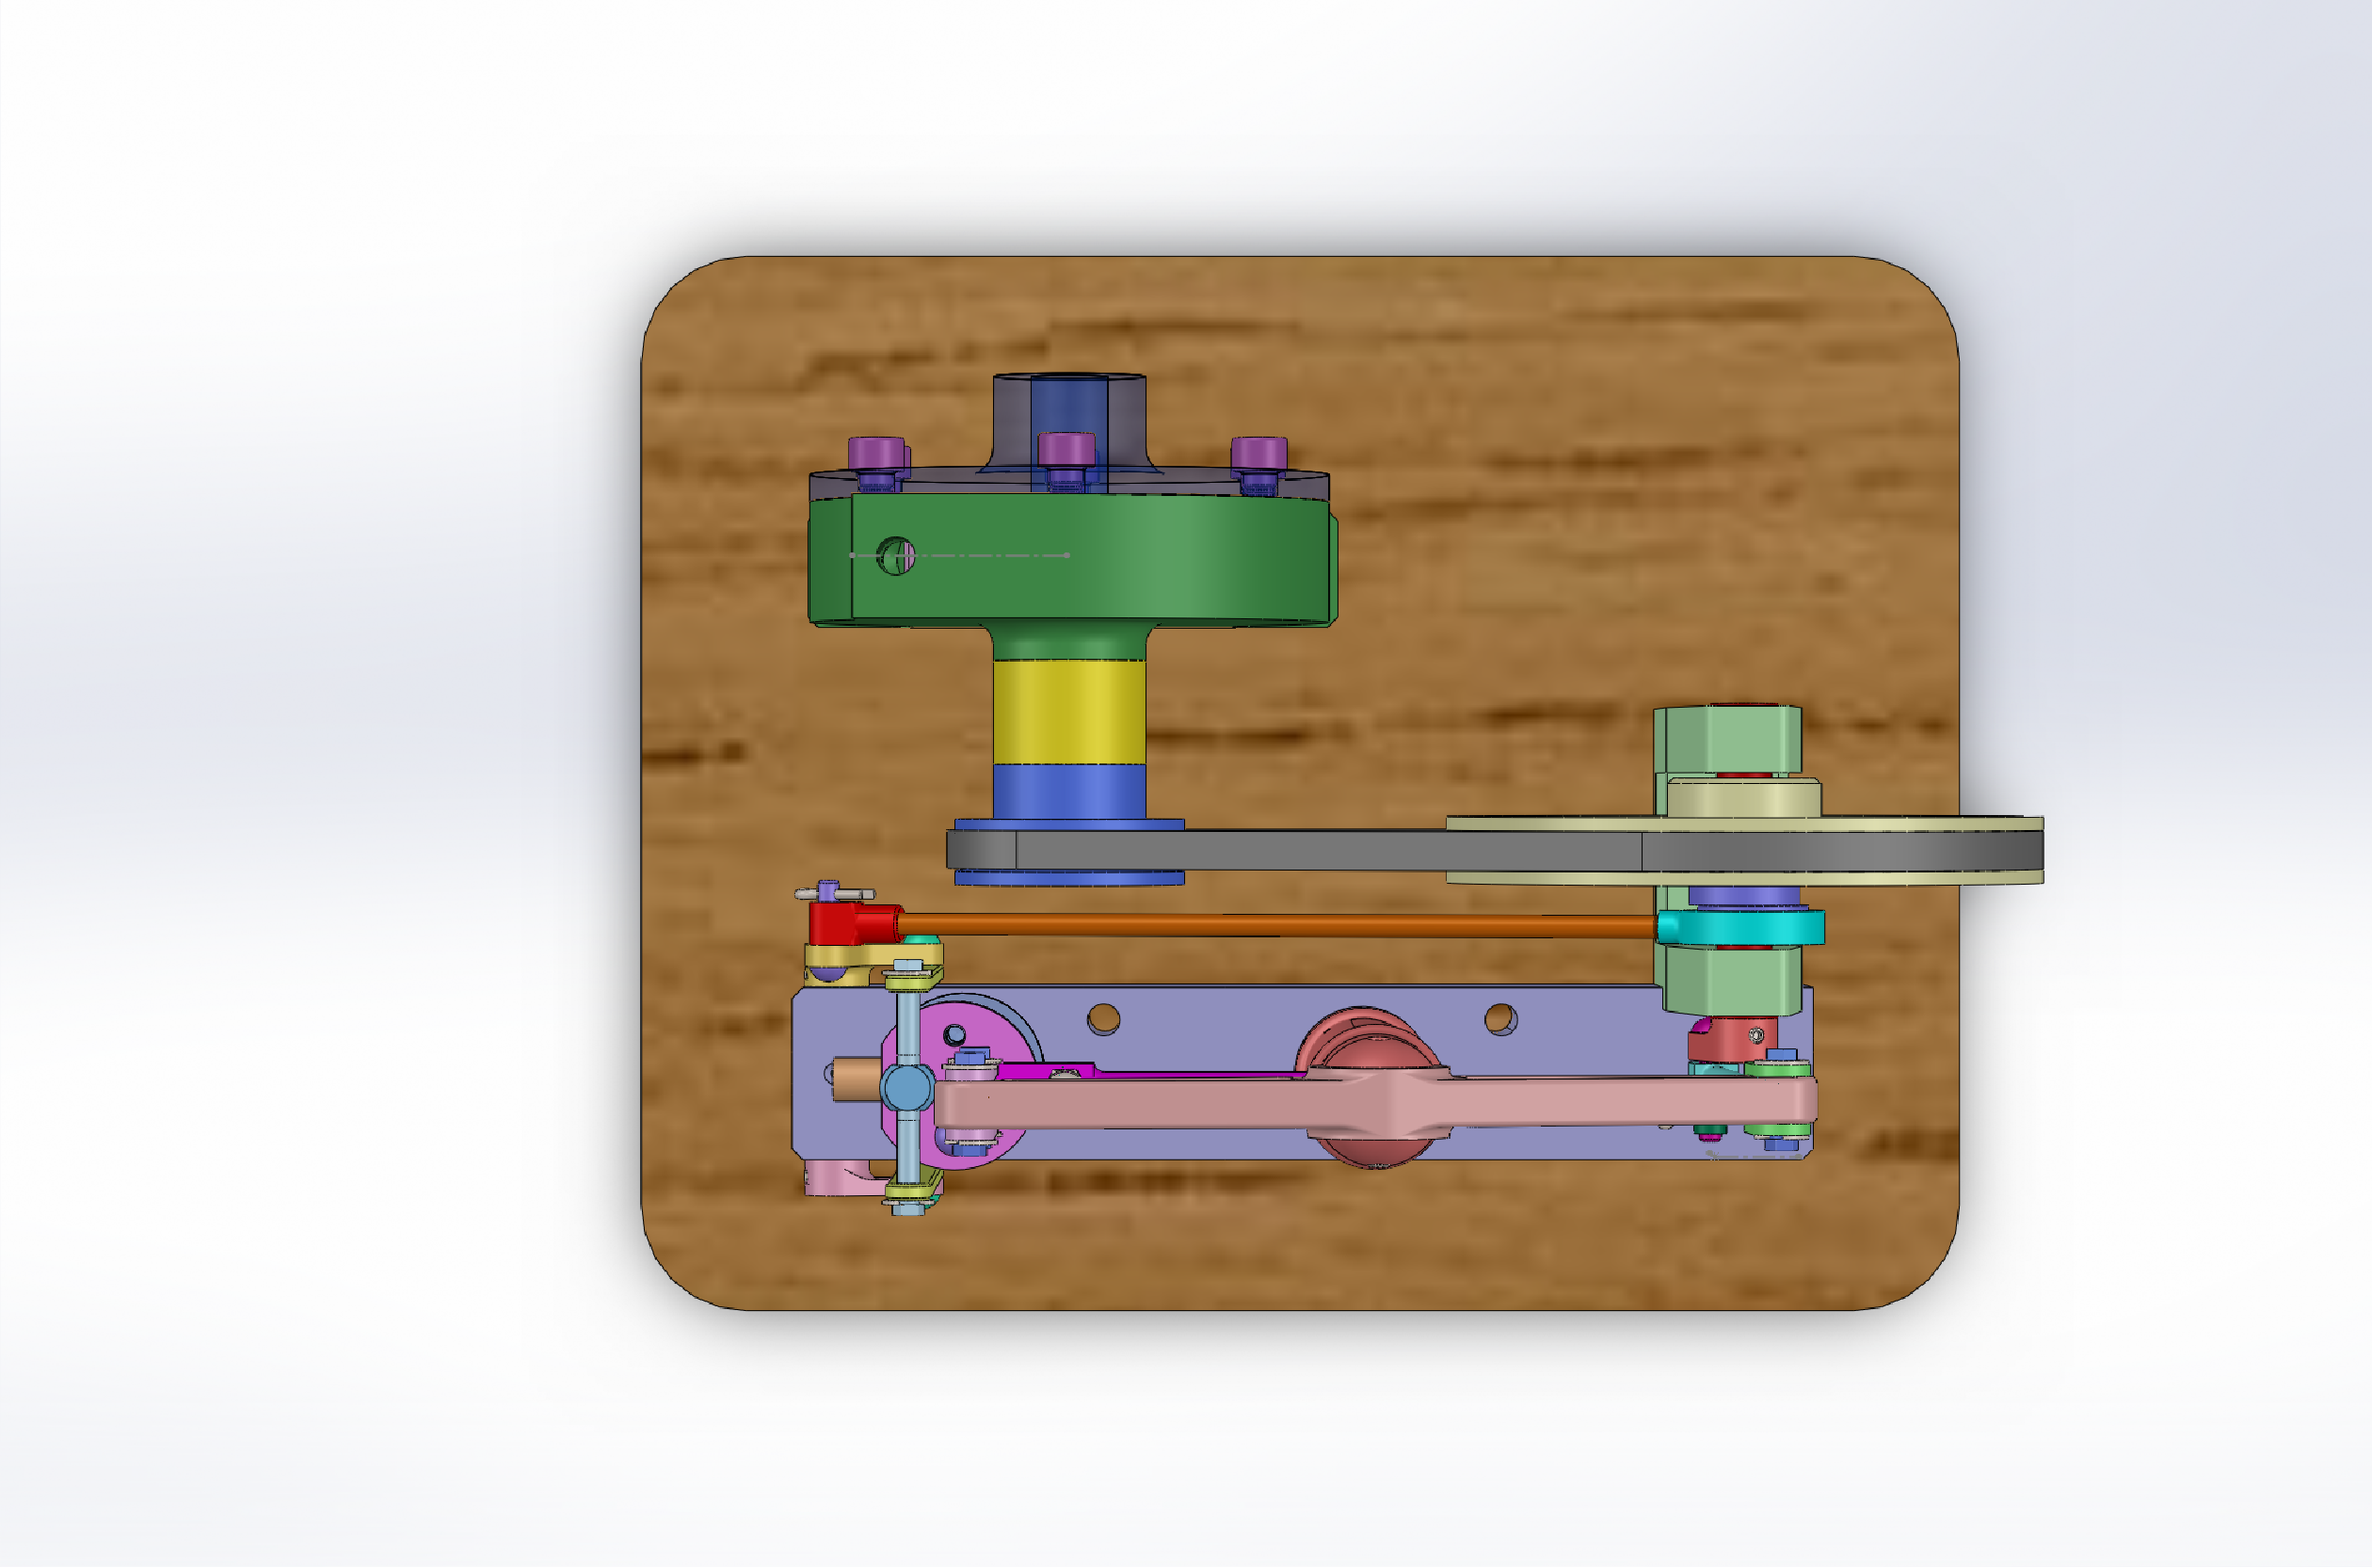
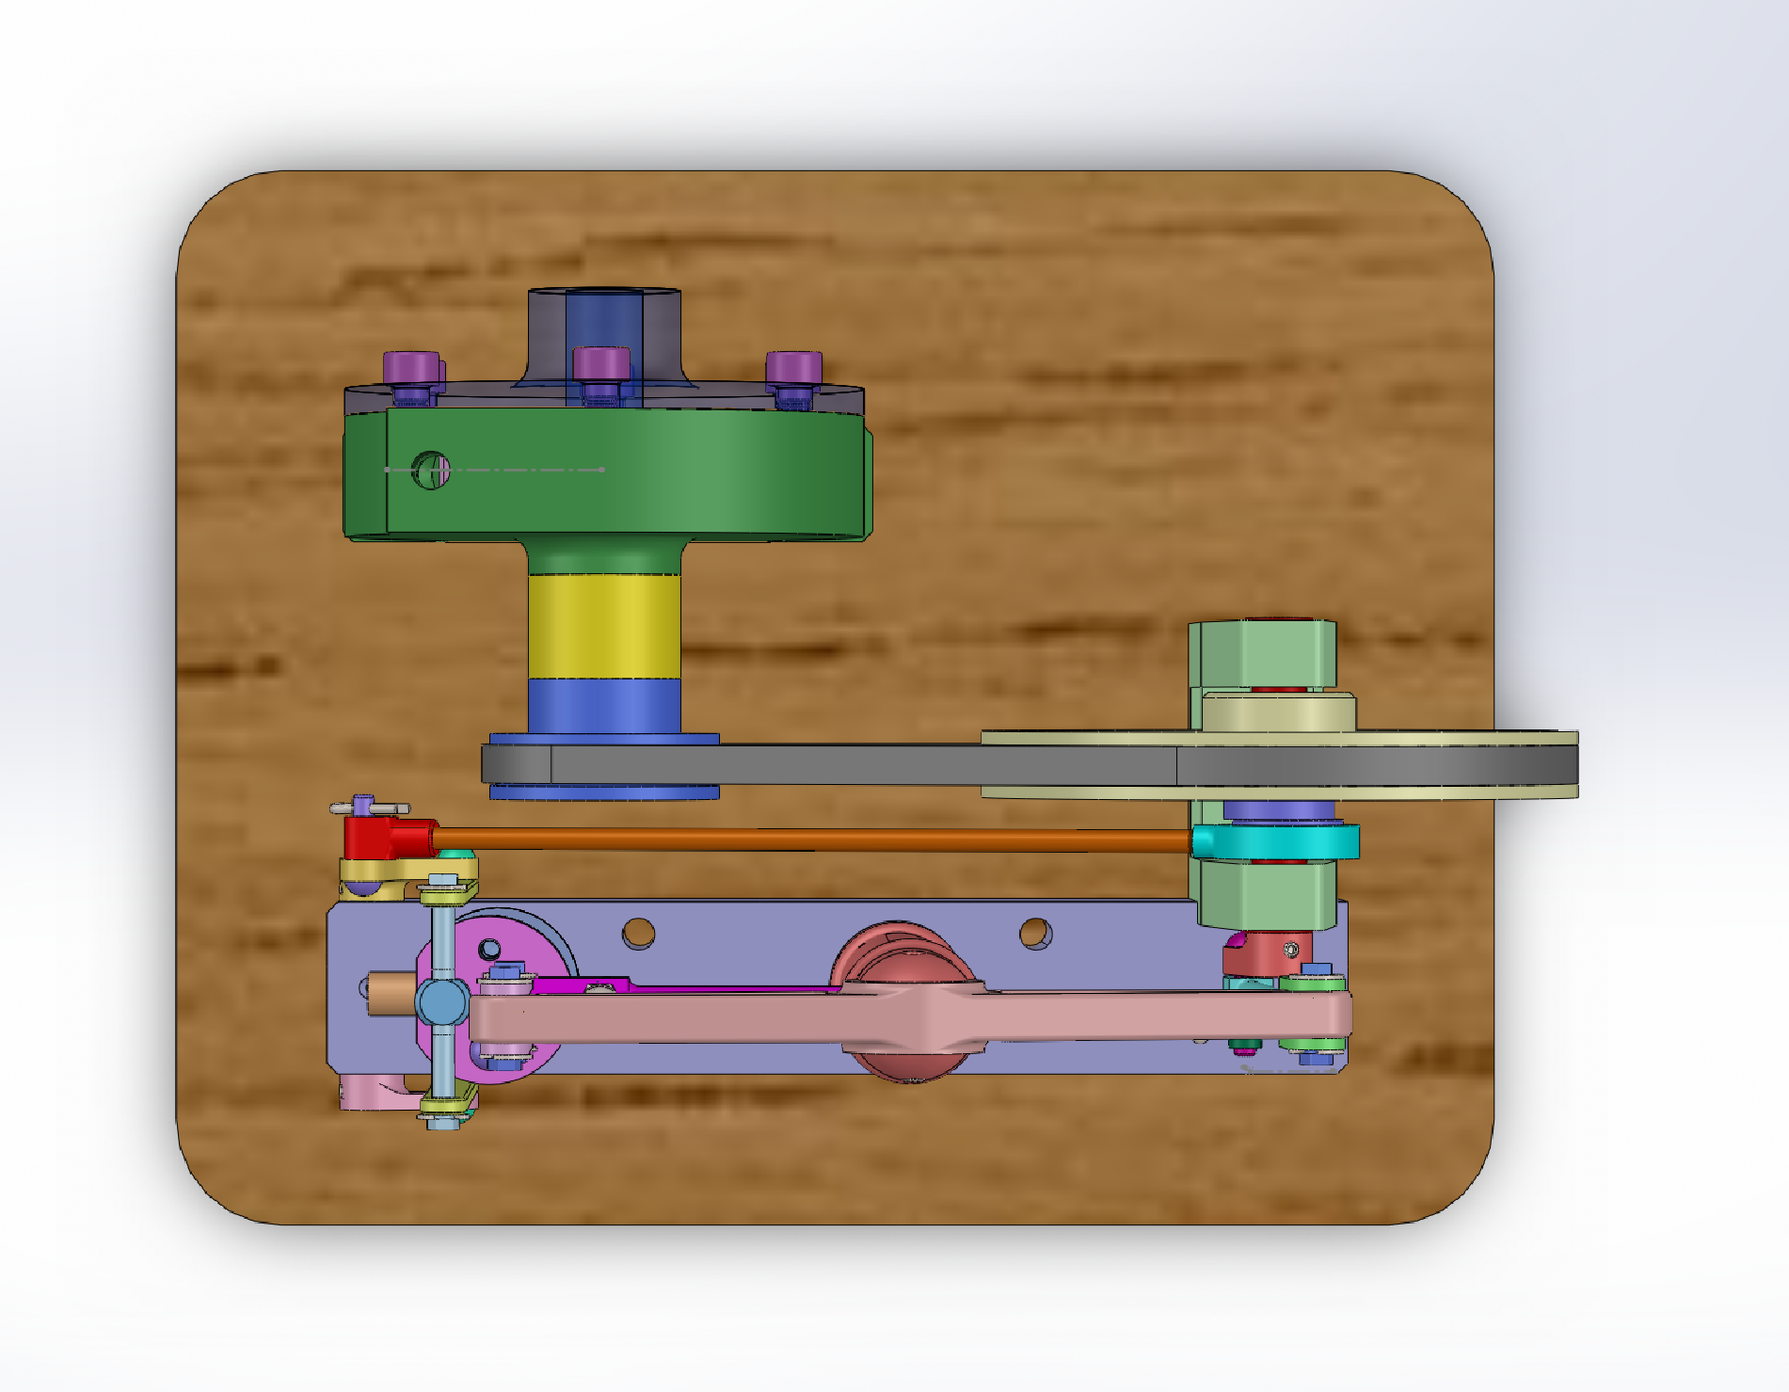
Crop project preview images

diff --git a/README.md b/README.md
@@ -4,10 +4,6 @@ This project is a complete SolidWorks CAD design featuring a full mechanical ass
 
 ## Preview
 
-![Isometric View](exports/images/isometric-view.png)
-
-## Assembly Animation
-
 [Watch the assembly animation](media/assembly-animation.mp4)
 
 [![Assembly Animation Thumbnail](media/animation-thumbnail.png)](media/assembly-animation.mp4)
